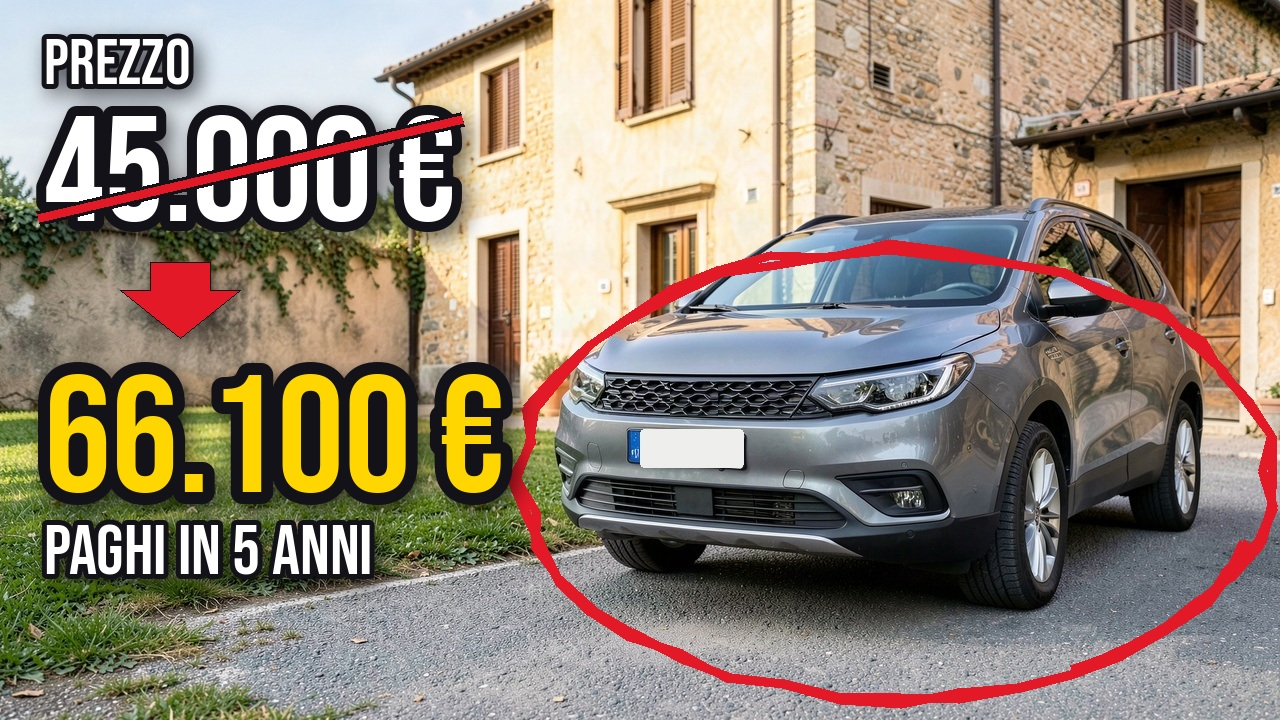
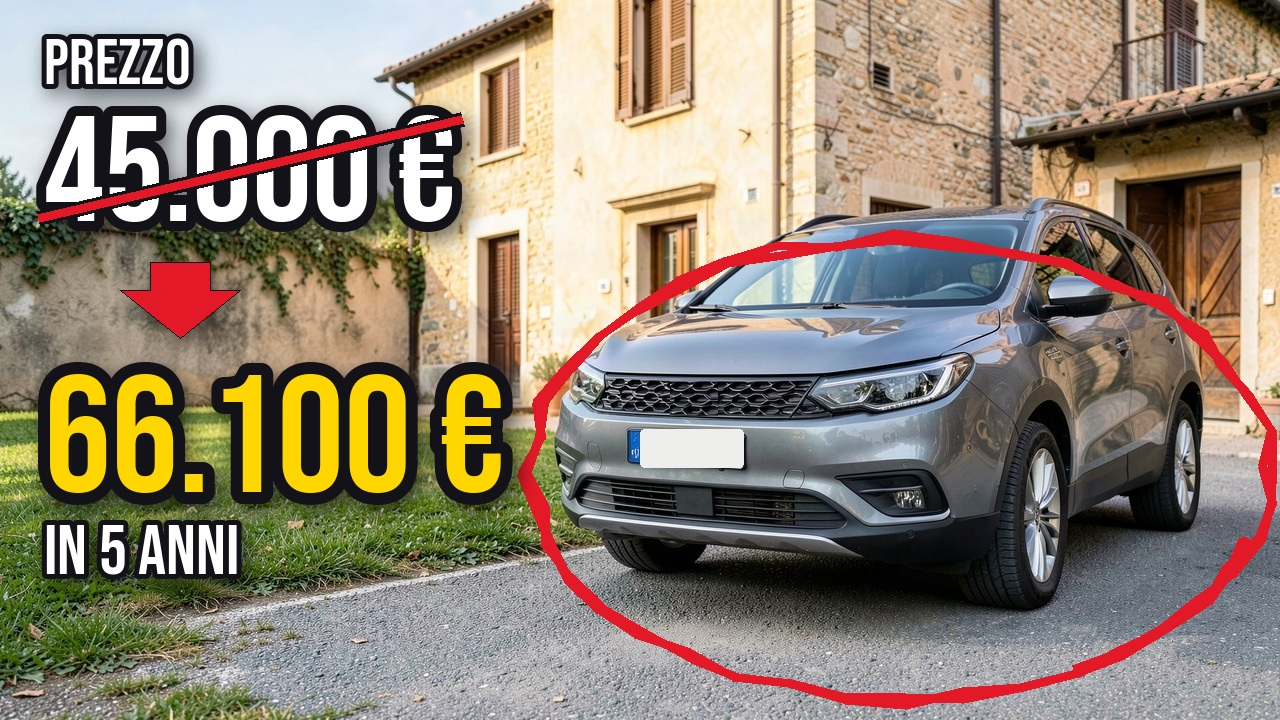
Costo Vero: copertina senza PAGHI, sempre IN N ANNI come le altre
Claude-Session: https://claude.ai/code/session_013ApoDmMcM7xnohpDpgQ76W

diff --git a/video_possesso.py b/video_possesso.py
@@ -575,7 +575,7 @@ def copertina(c, rif_url):
             ogg = re.sub(r',?\s*on a [^,]*background.*$', '', str((c.get('copertina') or {}).get('oggetto') or OGGETTO or TITOLO), flags=re.I)
             dopo, sotto = DATI['costo_vero'], None
             if DATI.get('prezzo') and dopo <= DATI['prezzo'] and DATI.get('totale', 0) > DATI['prezzo']:   # 12 nov (Giorgio): sempre un prima e un dopo che fa venire voglia di guardare
-                dopo, sotto = DATI['totale'], f"PAGHI IN {DATI['anni']} ANNI"
+                dopo = DATI['totale']   # sotto resta "IN N ANNI" come in tutte le altre copertine (Giorgio 12 nov: niente PAGHI)
             im = PF.crea({'prodotto': ogg, 'prezzo': DATI.get('prezzo') or 0, 'costo_vero': dopo, 'anni': DATI['anni'], 'sotto': sotto,
                           'lato': 'sx' if k % 2 == 0 else 'dx', 'seme': k})
             out = os.path.join(ROOT, 'copertina.jpg'); im.save(out, quality=93)
